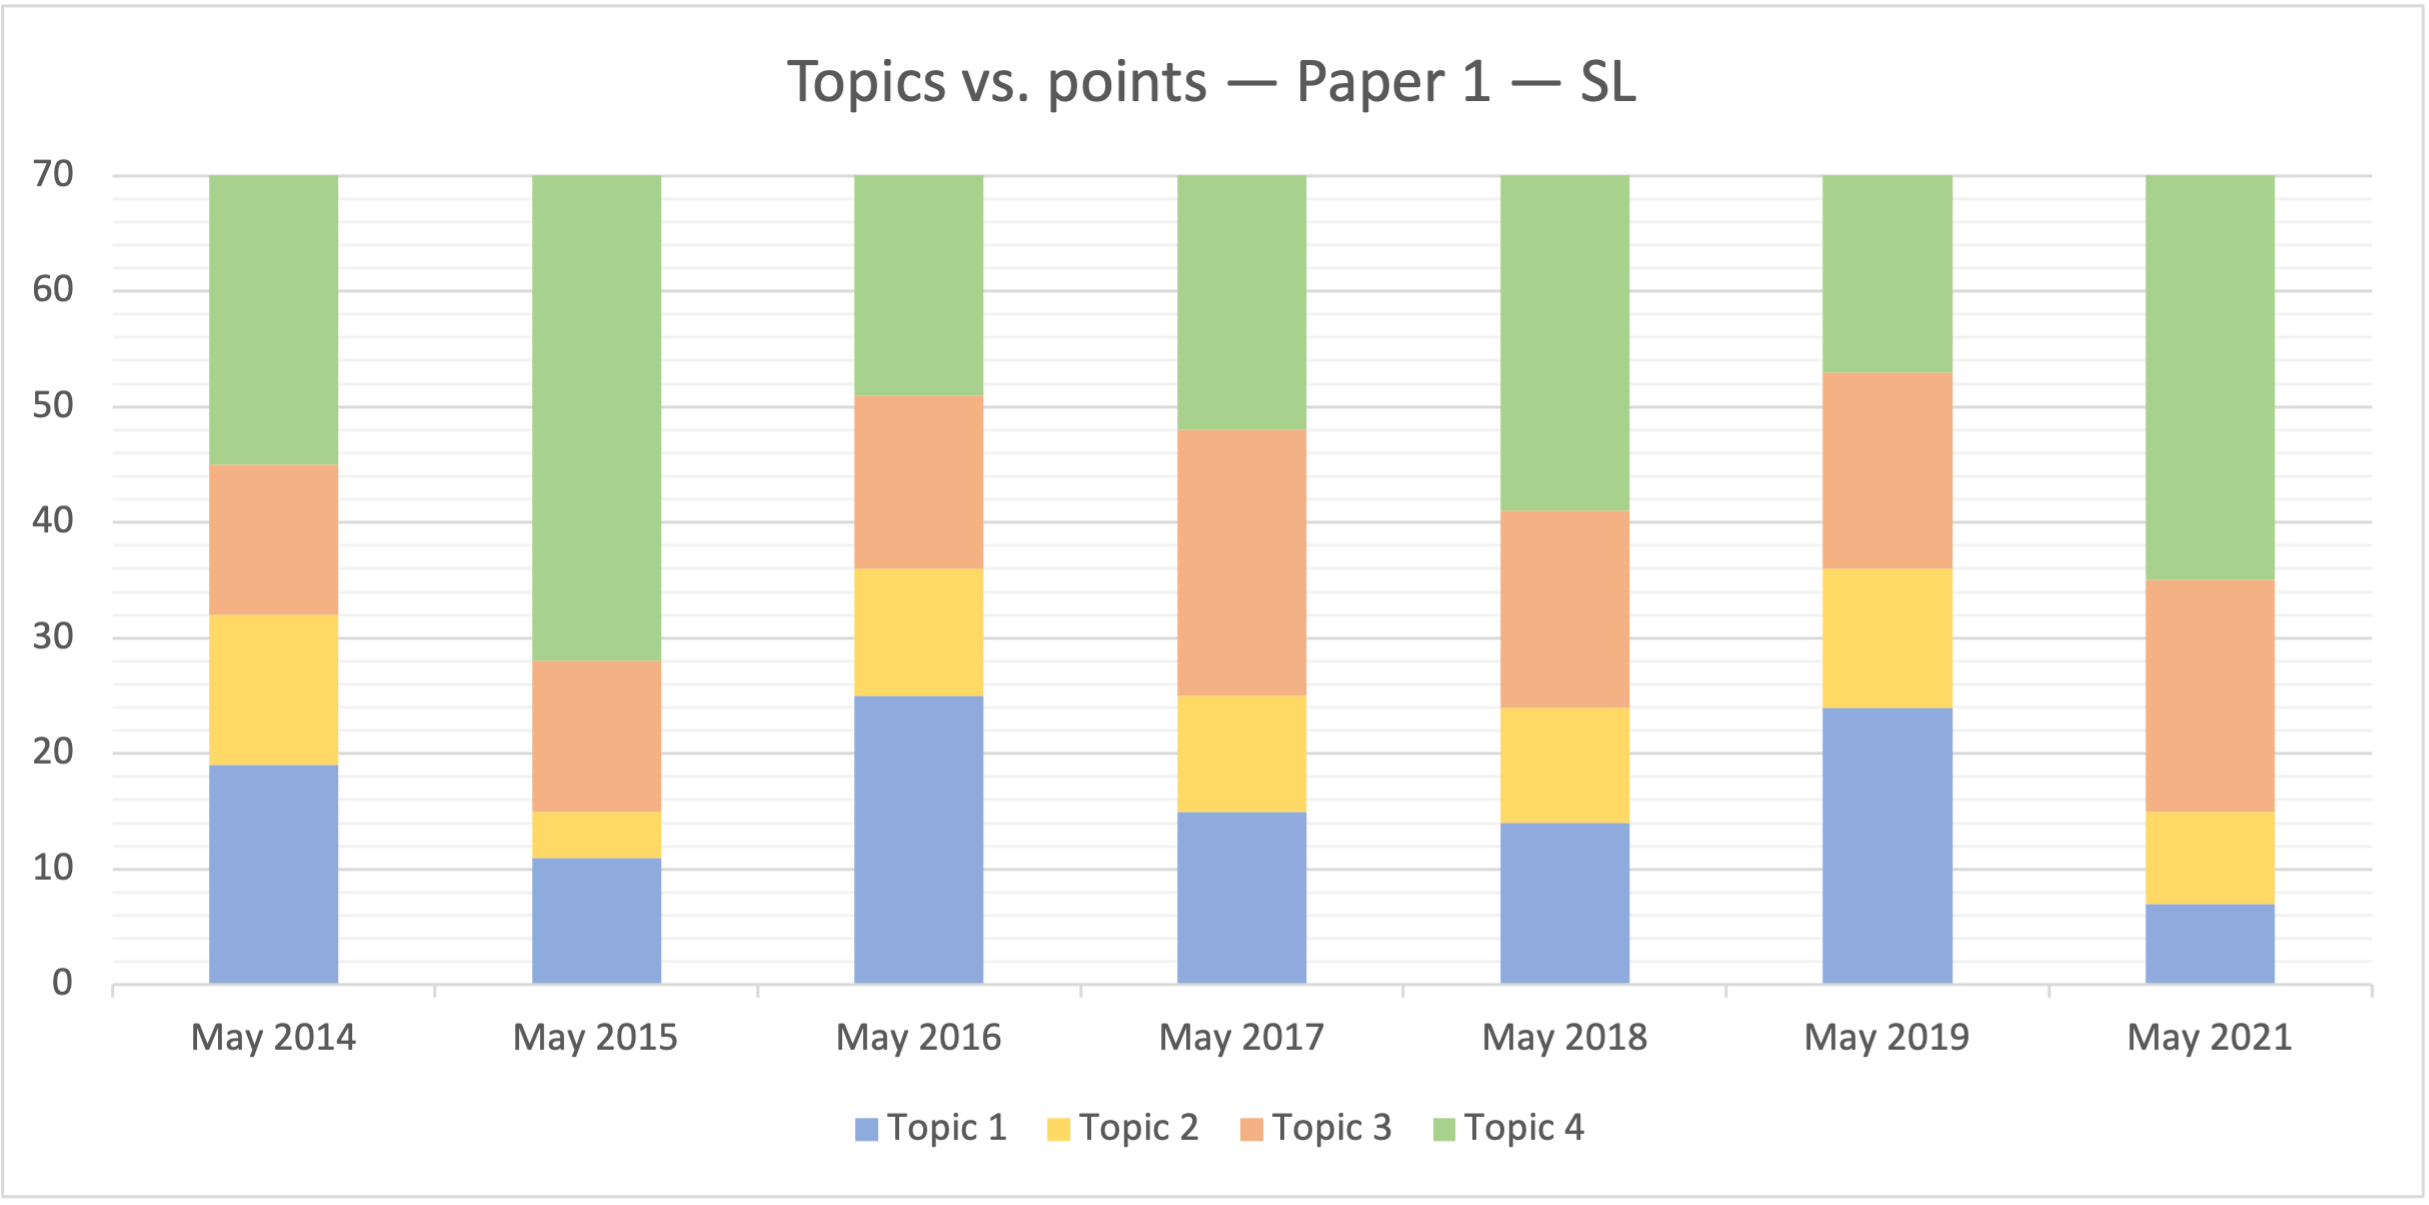
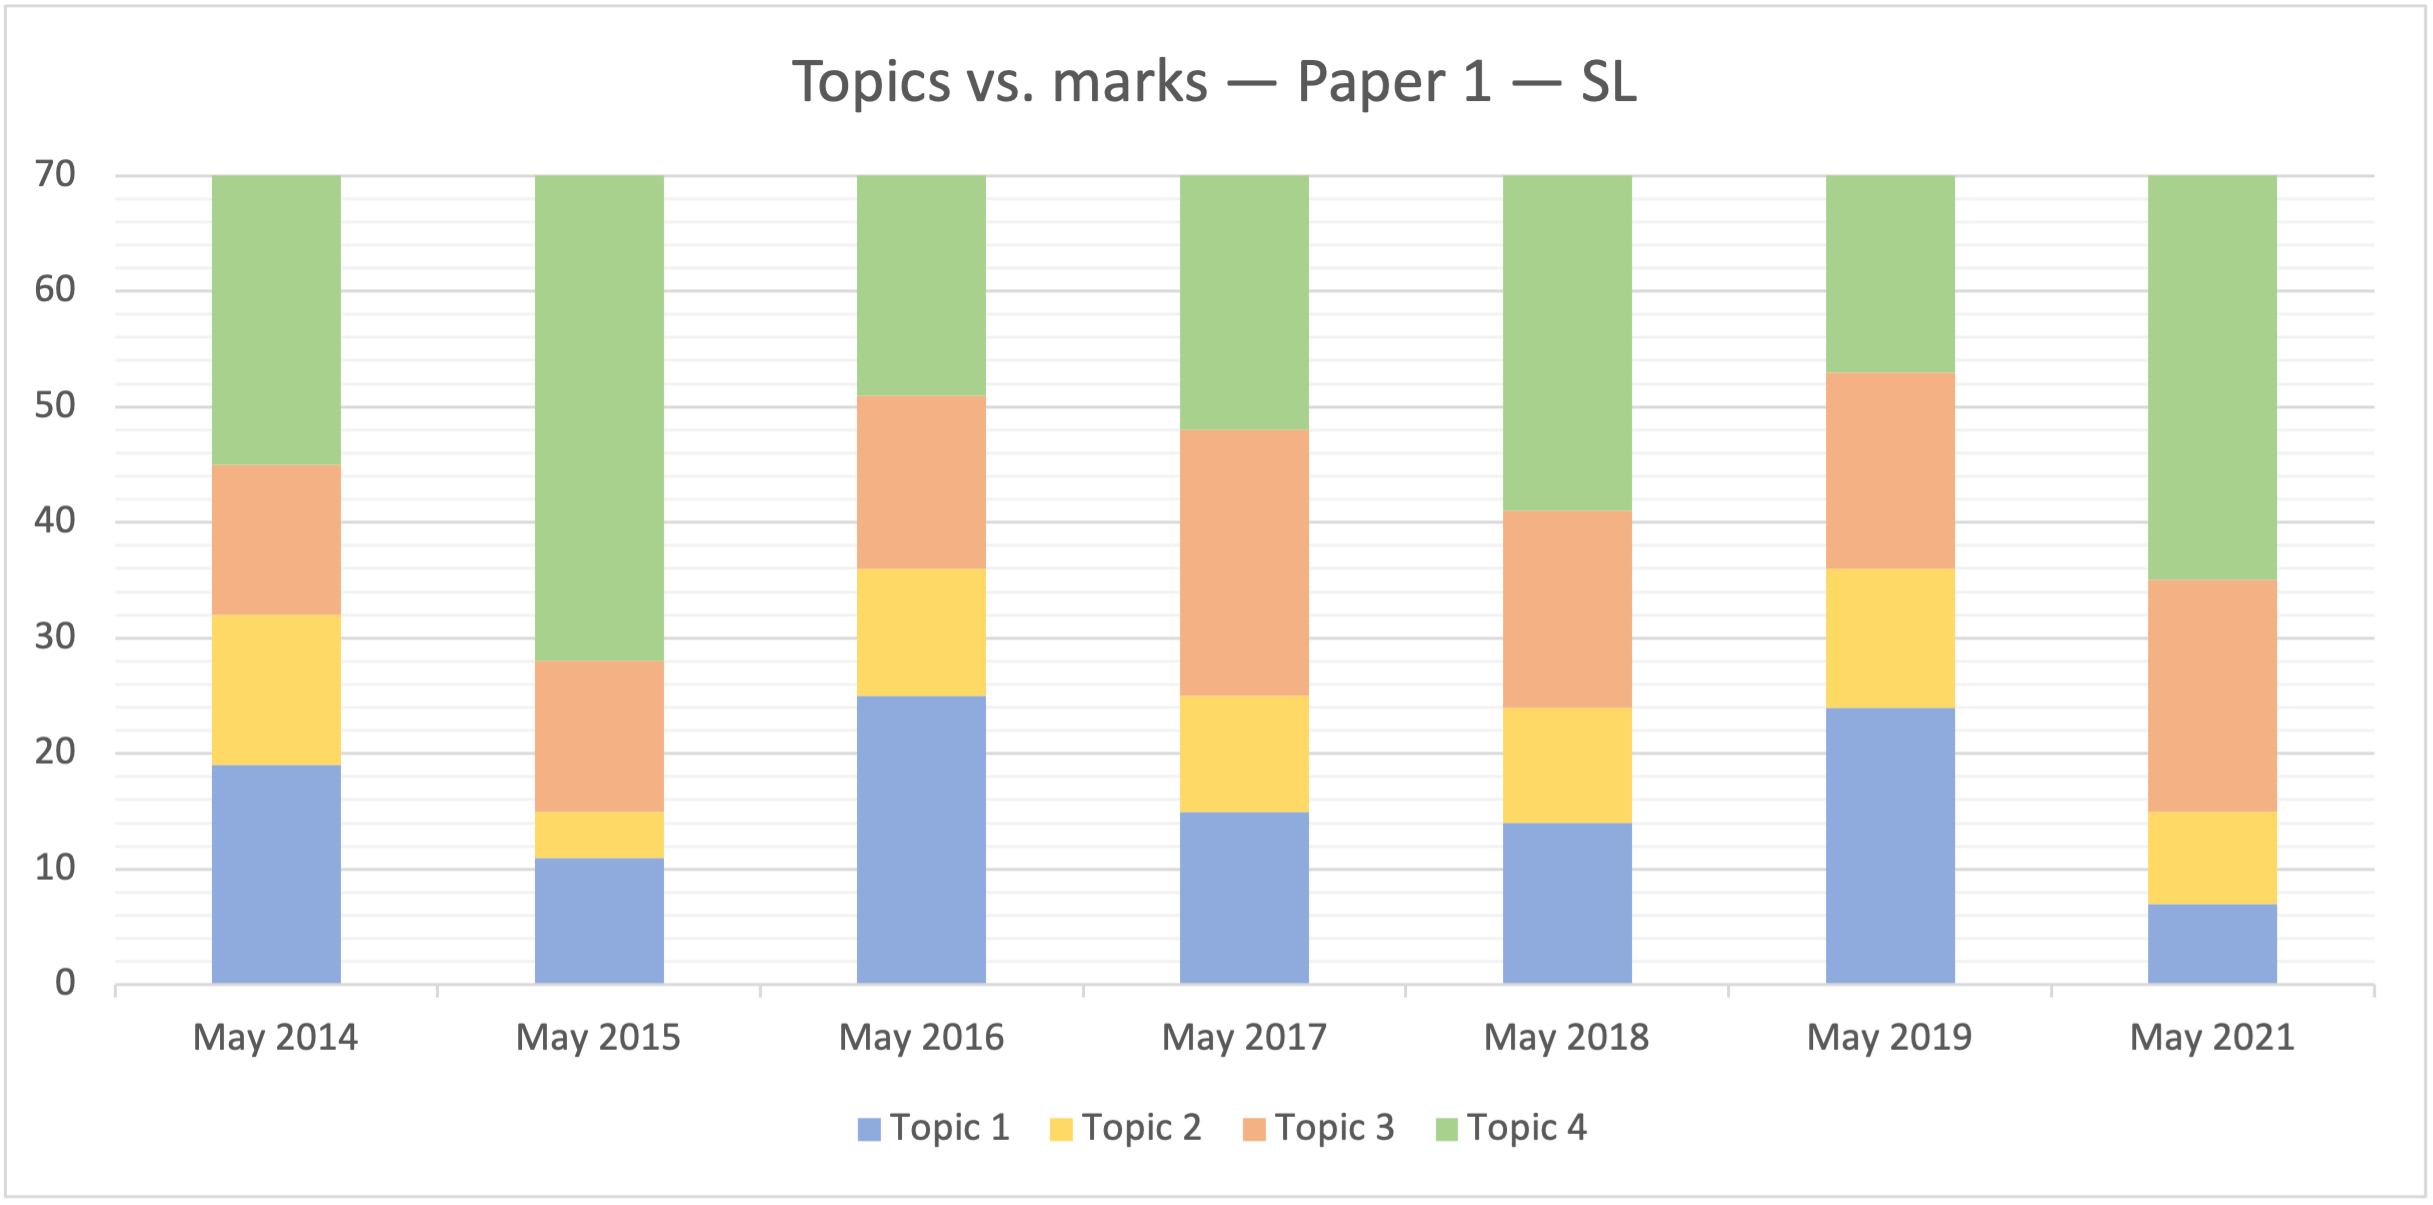
Paper 1 - extended description

diff --git a/content/external-assessment/paper-1/_index.md b/content/external-assessment/paper-1/_index.md
@@ -4,7 +4,32 @@ title: Paper 1
 
 # External Assessment --- Paper 1
 
-## Topics vs. points
+Paper 1 is a core part of the External Assessment. It covers four to seven topics, based on the chosen level. 
+
+**Standard level** and **Higher level**:
+
+* Topic 1: System fundamentals
+* Topic 2: Computer organization
+* Topic 3: Networks
+* Topic 4: Computational thinking, problem-solving and programming
+
+**Higher level** only:
+
+* Topic 5: Abstract data structures
+* Topic 6: Resource management
+* Topic 7: Control
+
+{{< hint info >}}
+When it comes to Topics 1-4, most of the questions overlap between the SL and HL variants of Paper 1.
+{{< /hint >}}
+
+{{< hint danger >}}
+Your Paper 1 score translates into 40-45% of your final grade, see [grade boundaries]({{< ref "/general-information/grade-boundaries" >}}).
+{{< /hint >}}
+
+## Topics vs. marks
+
+The maximum number of marks you can get for your Paper 1 depends on the chosen level (70 or 100). I spent some time going through all the past papers, and analyzed whether there is any regular (more or less) distribution of marks among the topics. It seems that there is --- see the summary below.
 
 ### Standard level
 
@@ -23,7 +48,7 @@ title: Paper 1
 | May 2021 |       7 |       8 |      20 |      35 |
 
 {{< hint warning >}}
-The data in the table above is not official. I spent one of my evenings going through all the questions, but I might have missed something. If you are bored enough to recheck my estimations and thus you do so, let me know.
+The data in the table above is not official.
 {{< /hint >}}
 {{< /tab >}}
 
@@ -50,7 +75,7 @@ The data in the table above is not official. I spent one of my evenings going th
 | May 2021 |       7 |       4 |      19 |      31 |      20 |      11 |       8 |
 
 {{< hint warning >}}
-The data in the table above is not official. I spent one of my evenings going through all the questions, but I might have missed something. If you are bored enough to recheck my estimations and thus you do so, let me know.
+The data in the table above is not official.
 {{< /hint >}}
 {{< /tab >}}
 
@@ -62,6 +87,12 @@ The data in the table above is not official. I spent one of my evenings going th
 {{< /tabs >}}
 
 ## Grade boundaries
+
+Computer science course has a variety of assessment components. Paper 1 is marked using a markscheme and assigned a numerical mark by the external examiner. Grade boundaries are then applied to determine the overall grade on the 1-7 scale for this component.
+
+{{< hint info >}}
+These boundaries have no impact on your final grade. However, they may be used to estimate the difficulty of the component.
+{{< /hint >}}
 
 ### Standard Level
 

diff --git a/content/general-information/grade-boundaries/_index.md b/content/general-information/grade-boundaries/_index.md
@@ -25,6 +25,20 @@ where
 Paper 2 was removed from the May 2021 session due to the COVID-19 pandemic. For this reason, Paper 1 had a weight of 70 (instead of 45).
 {{< /hint >}}
 
+{{< hint info >}}
+**Fun fact**  
+The boundaries for each of the subjects are different. For example, these are the lower boundaries for the grade of 7 during the May 2019 session:
+
+| Subject          | SL | HL |
+| ---------------- | -- | -- |
+| Computer science | 72 | 69 |
+| Chemistry (TZ1)  | 78 | 79 |
+| Physics (TZ1)    | 65 | 67 |
+| Biology (TZ1)    | 79 | 78 |
+| Economics (TZ1)  | 75 | 71 |
+| English B        | 87 | 87 |
+{{< /hint >}}
+
 {{< tabs "GB-SL-2014-2019" >}}
 
 {{< tab "Table" >}}

diff --git a/content/external-assessment/paper-3/_index.md b/content/external-assessment/paper-3/_index.md
@@ -1,5 +1,5 @@
 ---
-title: Paper 3
+title: Paper 3 (HL only)
 ---
 
 # External Assessment --- Paper 3
